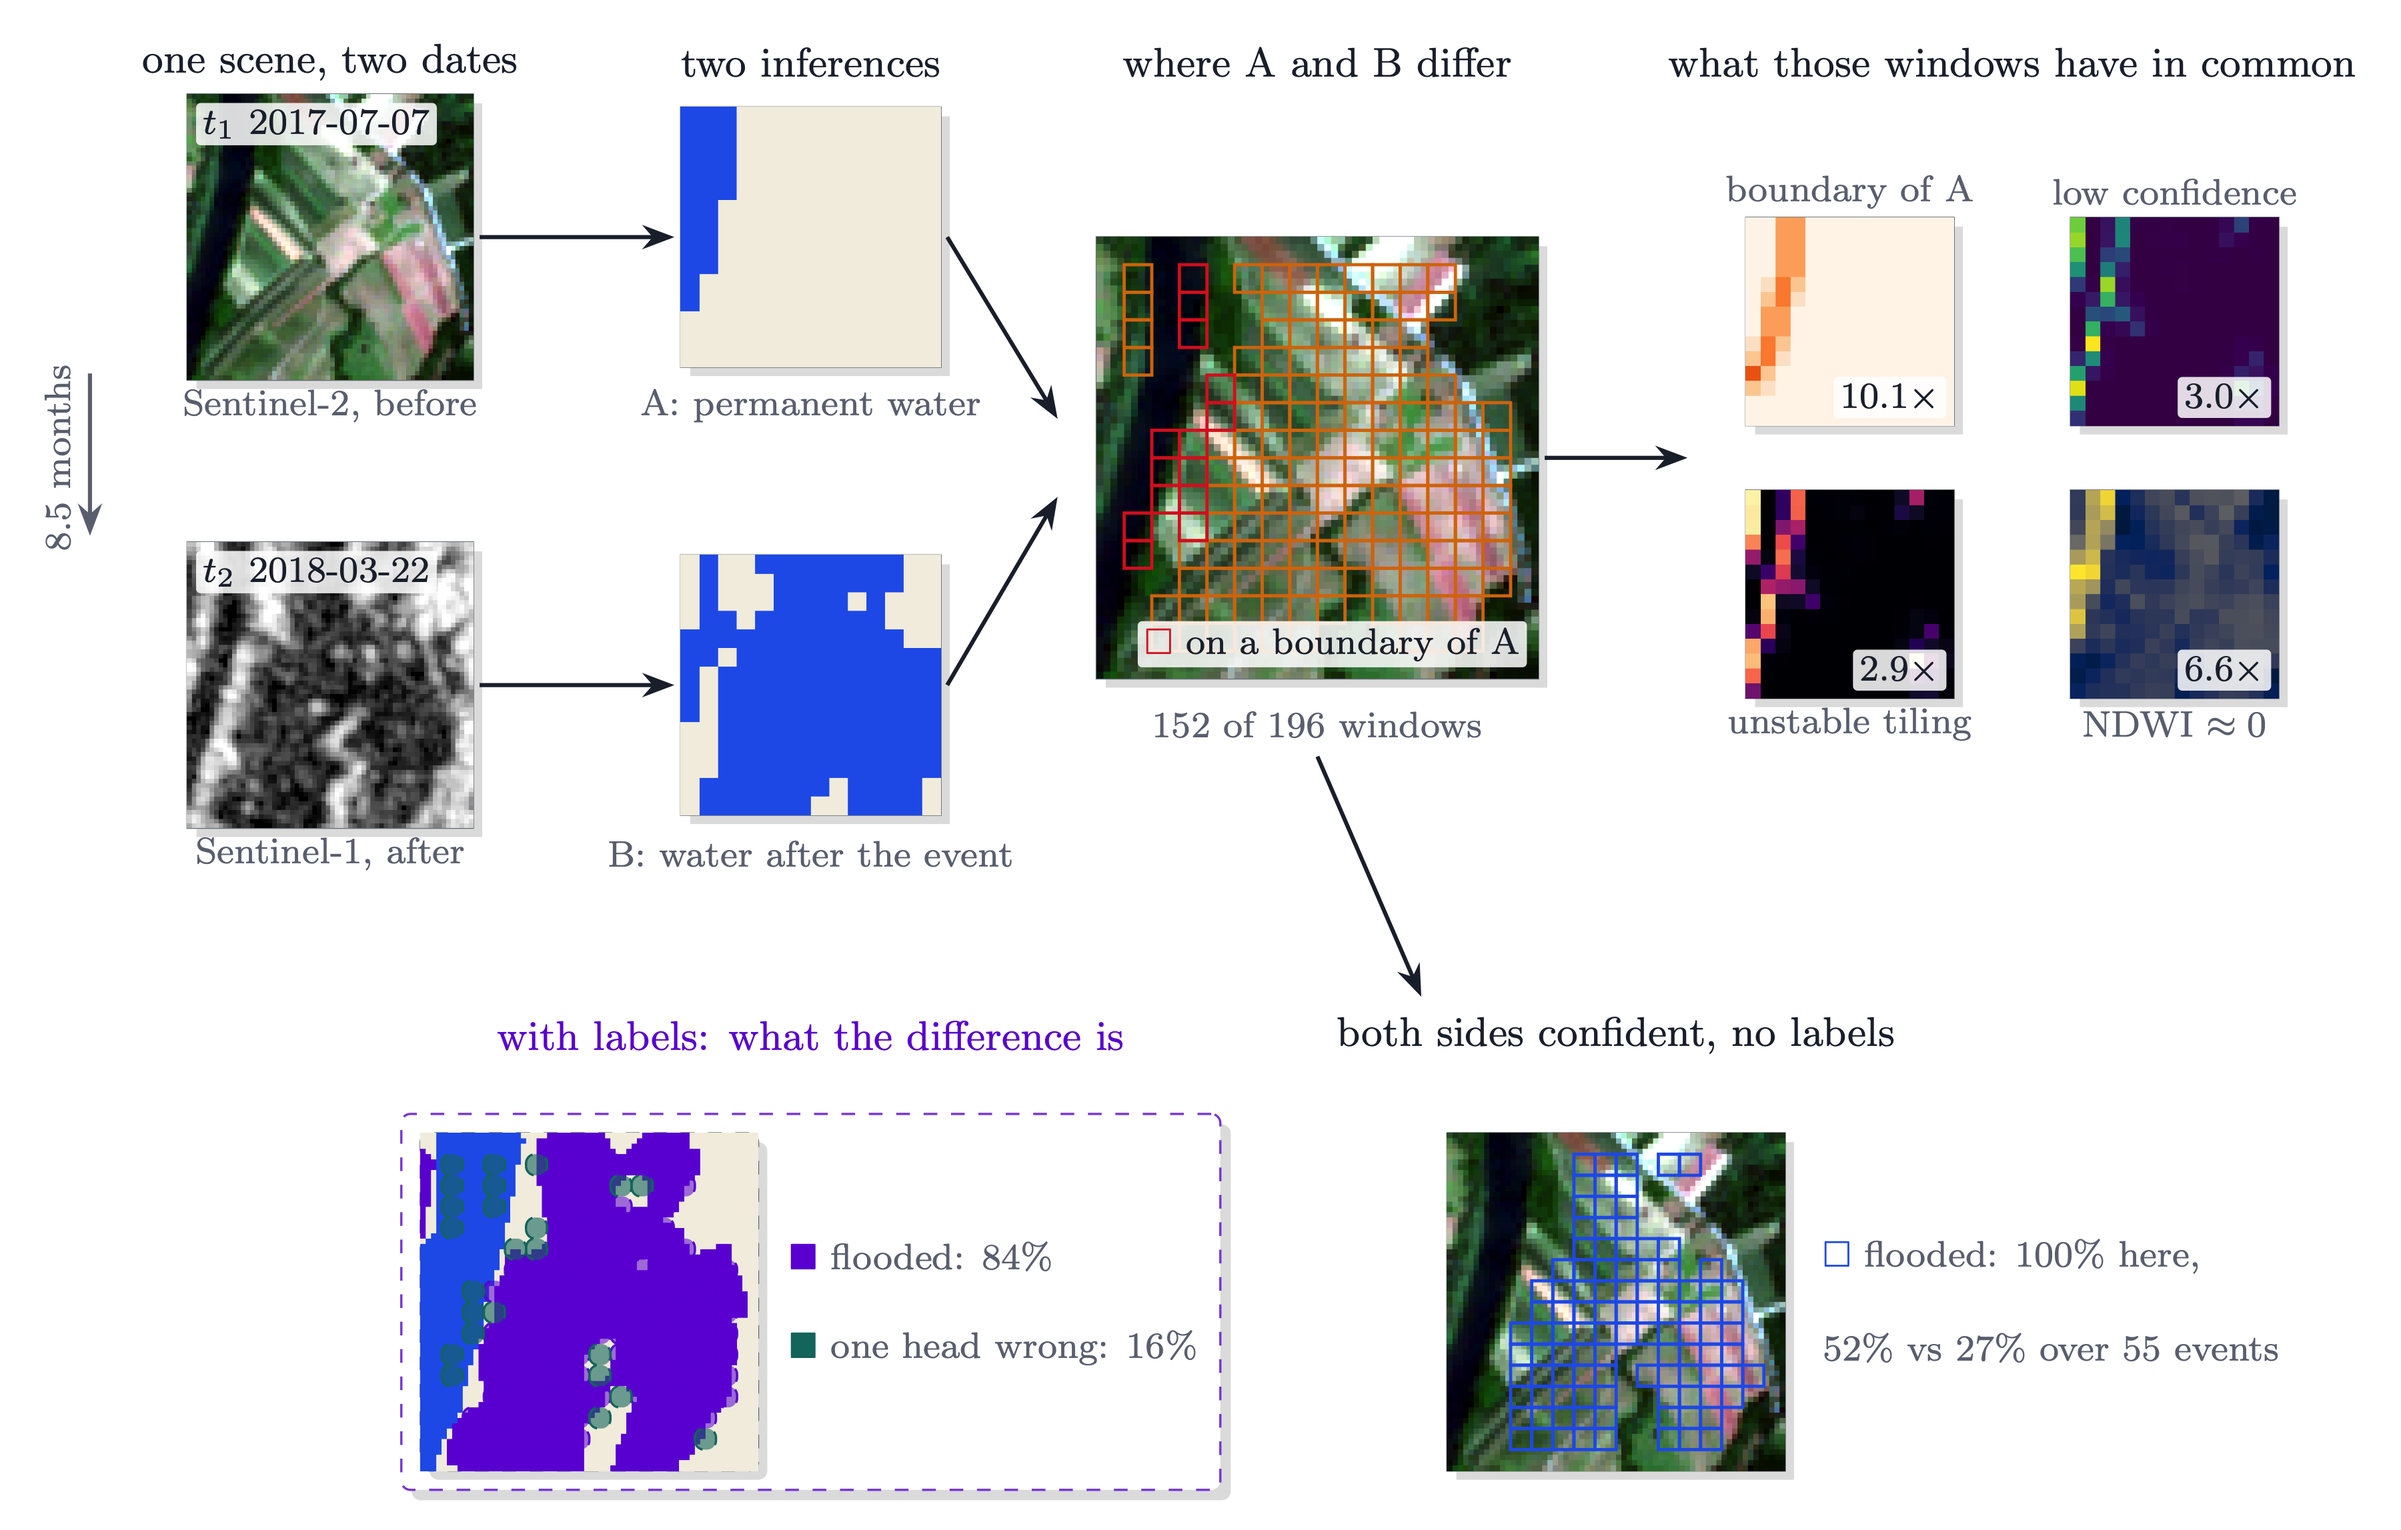
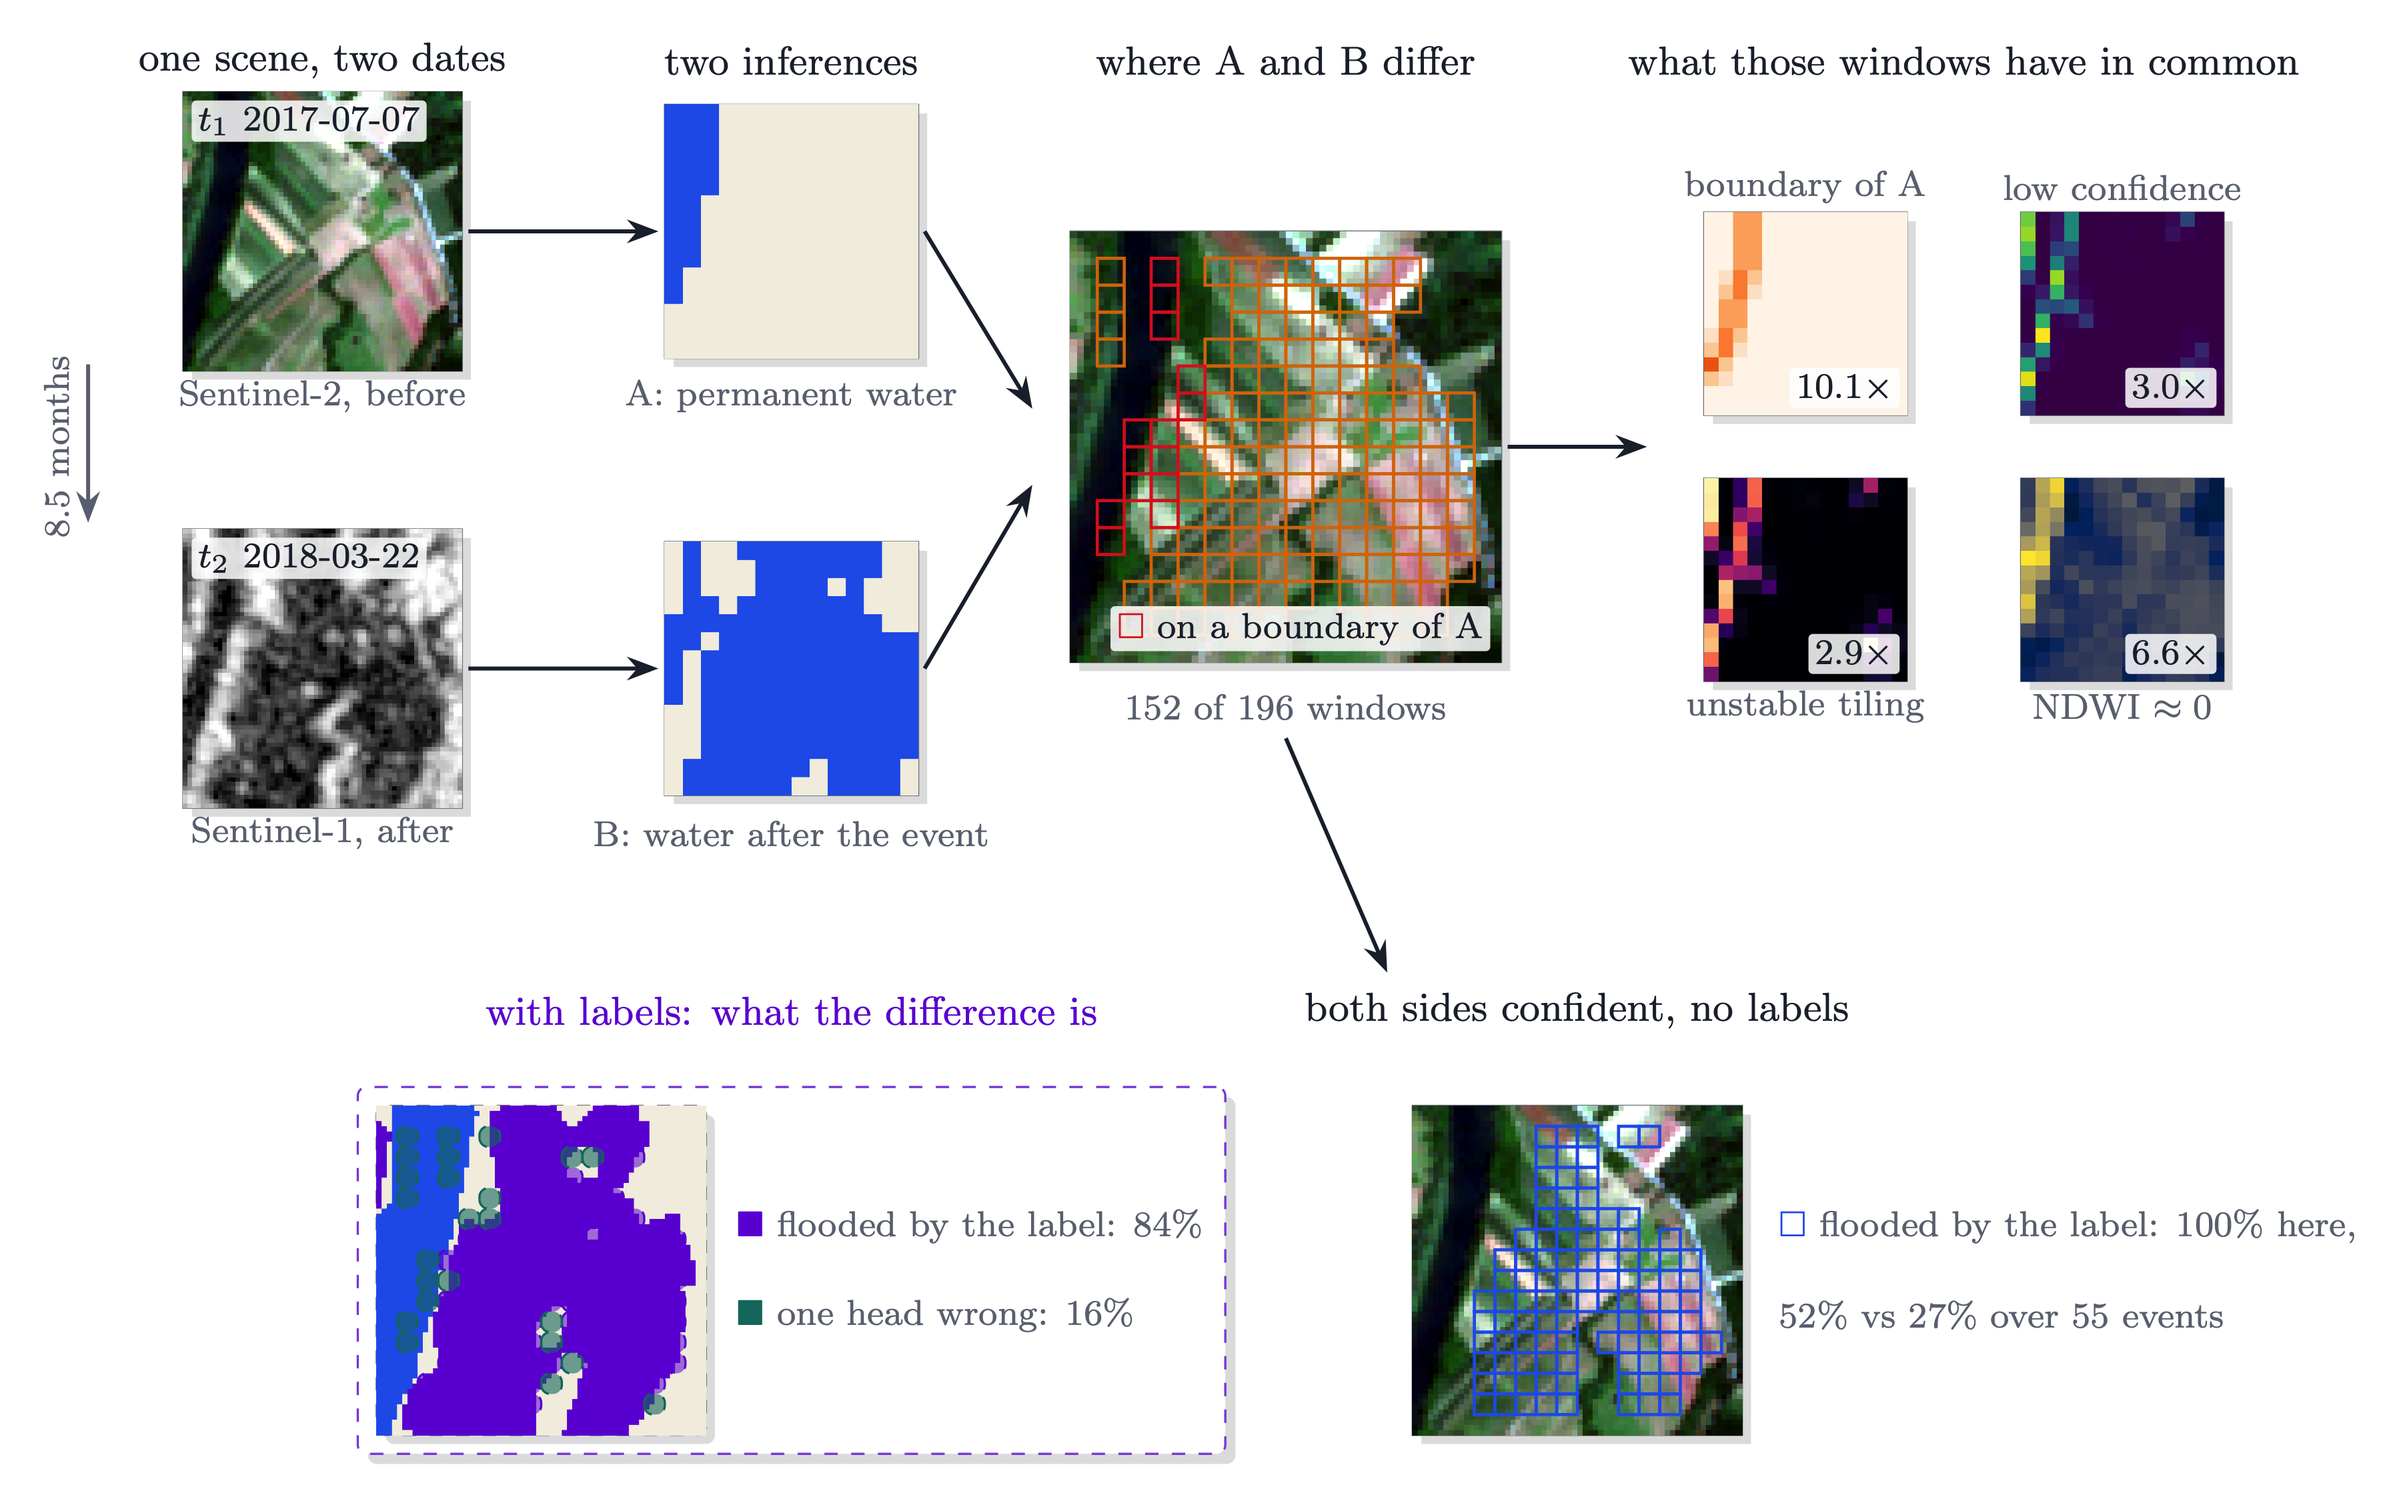
docs: the comparison figure's two flood tags say 'flooded by the label', so the picture cannot be read as the model claiming a flood

diff --git a/docs/figures/tikz/compare_inferences.tex b/docs/figures/tikz/compare_inferences.tex
@@ -73,13 +73,13 @@
       \flatraster{lt}{0}{0}{cmp_label.png}{2.6cm}
       \flatcells{lt}{16}{fcell}{\cmpFlooded}{2.6cm}
       \flatcells{lt}{16}{ecell}{\cmpError}{2.6cm}
-      \node[sub, anchor=west] at (1.5,0.35) {\textcolor{oeviolet}{$\blacksquare$} flooded: \cmpChipFlooded\%};
+      \node[sub, anchor=west] at (1.5,0.35) {\textcolor{oeviolet}{$\blacksquare$} flooded by the label: \cmpChipFlooded\%};
       \node[sub, anchor=west] at (1.5,-0.35) {\textcolor{oeteal}{$\blacksquare$} one head wrong: \cmpChipErrB\%};
     \end{tikzpicture}};
   \node[lab] at (11.3,0.85) {both sides confident, no labels};
   \flatraster{bc}{11.3}{-1.2}{cmp_s2.png}{2.6cm}
   \flatcells{bc}{16}{ccell}{\cmpBothConfident}{2.6cm}
-  \node[sub, anchor=west] at (12.85,-0.85) {\textcolor{oeblue}{$\square$} flooded: \cmpChipBothFlooded\% here,};
+  \node[sub, anchor=west] at (12.85,-0.85) {\textcolor{oeblue}{$\square$} flooded by the label: \cmpChipBothFlooded\% here,};
   \node[sub, anchor=west] at (12.85,-1.55) {\cmpBothFlooded\% vs \cmpFloodedAll\% over \cmpEvents{} events};
   \draw[flow] (9.0,3.0) -- (9.8,1.15);
 \end{tikzpicture}
